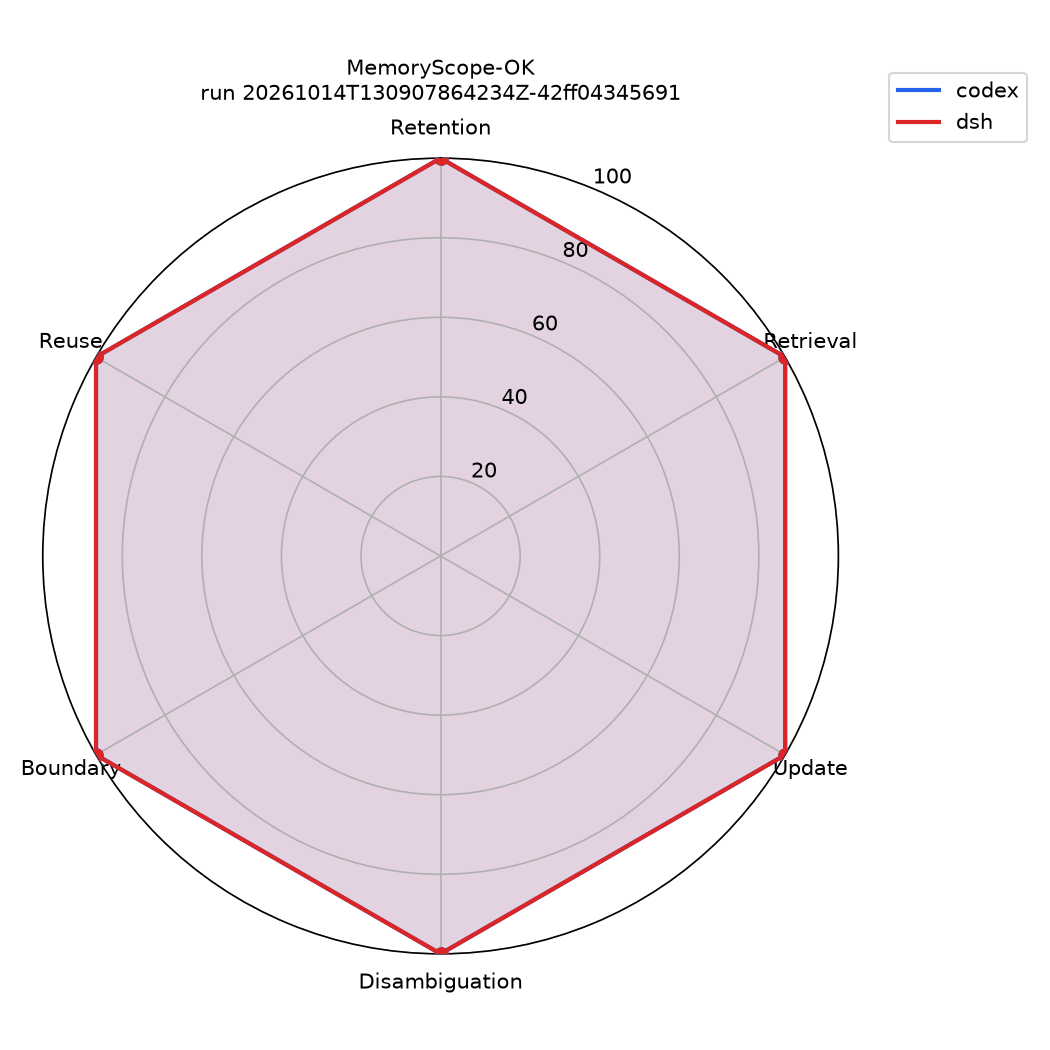
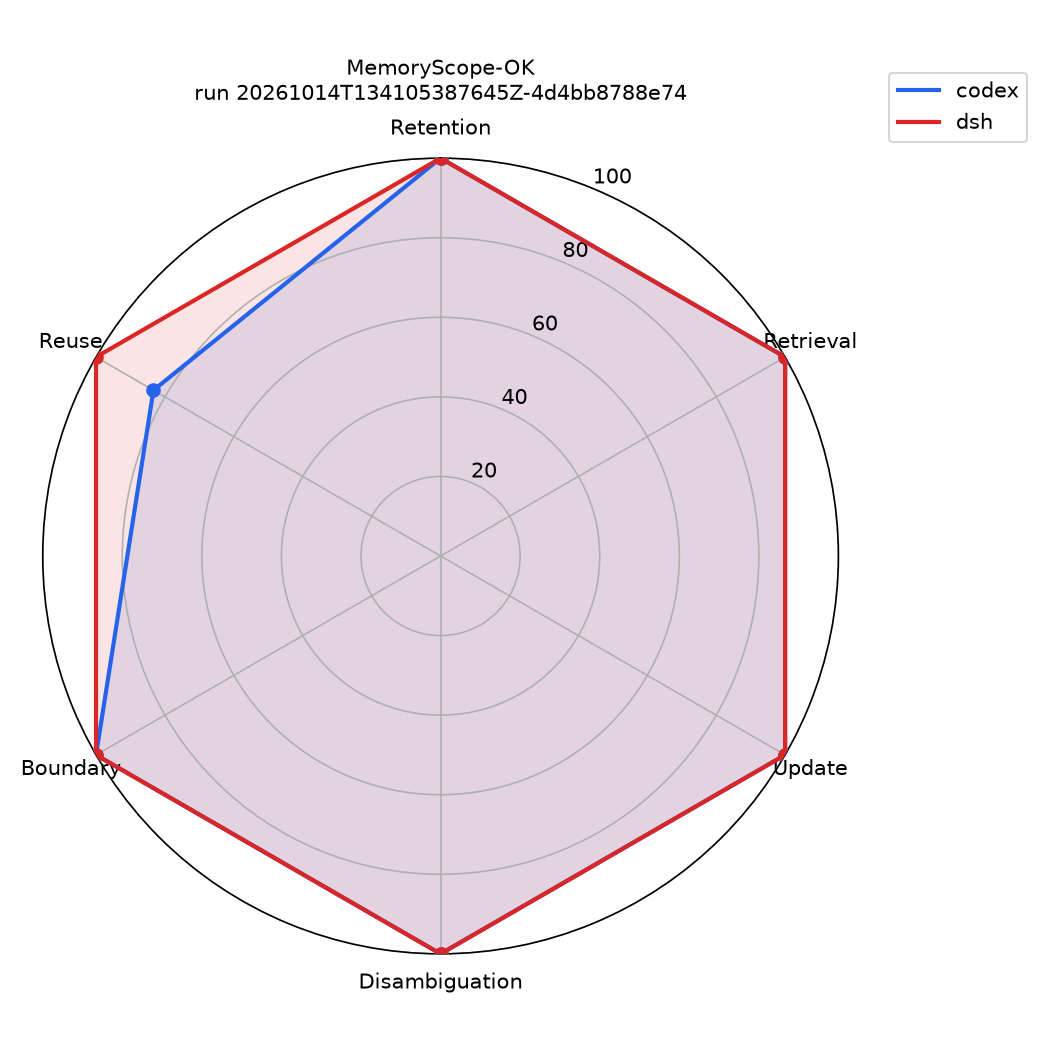
36-case real-agent run results; update STATUS/TODO, SOLUTION results, docs/results

diff --git a/STATUS.md b/STATUS.md
@@ -4,26 +4,31 @@
 
 ## 当前结论
 
-- 版本 **0.2.0**，评分器 **1.2**，提交 `ac3a318`。
-- 数据集 `datasets/golden`：**24 条**用例，六维各 4 条（schema 1.1，steps 格式），`review_status` 均为 draft。48 条目标尚未完成。
-- 两个真实 Agent（Codex CLI、DeepSeek Harness）已在 macOS 上完成一次完整、无错误的评测。
-- **尚未在 openKylin 上安装或运行。** 虚拟机已建好，系统未装（见下文）。
+- 版本 **0.2.0**，评分器 **1.2**，数据 schema 1.1。
+- 数据集 `datasets/golden`：**36 条**，六维各 6 条，其中每维 2 条 hard（由 `scripts/add_hard_cases.py` 生成），全部 `review_status: draft`。48 条目标尚未完成。
+- 两个真实 Agent（Codex CLI、DeepSeek Harness）在 macOS 上完成 36 条完整评测，codex 97.2，dsh 100.0。
+- 已写好 openKylin 安装脚本、一键运行脚本、.deb 打包脚本和方案/演示文档，**均未在 openKylin 上执行过**。系统安装进度见下文。
 
 ## 已实现
 
 - CLI：`validate`、`list-agents`、`run`、`report`、`rescore`（离线重评已保存证据，不调用 Agent）。
-- 用例格式：steps（message / new_session / probe），probe 级 expected 只交给评分器，不传给 Agent。
+- 用例格式：steps（message / new_session / probe / check_memory / check_file）。expected 只交给评分器，不传给 Agent。
 - 结果状态 pass / fail / unknown / error / unsupported 分开记录。维度分 = 100 × pass / (pass + fail)，其余状态不进分母，但会降低覆盖率。任一维度缺失时六维总分为 null。
 - 评分器 1.2（确定性规则，无 LLM）：
-  - `contains` 与 `answer_line`（只评最后一行“答案：”）两种规则。
-  - 拉丁字母/数字词按边界匹配，下划线视为分隔符。
-  - “星期X/礼拜X”统一为“周X”，礼拜天/星期天/周天统一为周日。
-- Adapter：Demo（synthetic）、Codex CLI（`codex exec --json`，DeepSeek OpenAI 兼容接口，model `deepseek-flash`）、DeepSeek Harness（`dsh --profile headless --json`）。
-  - 每个 case 使用独立的临时 home（`CODEX_HOME`/`DSH_HOME`）和工作区，不读写 `~/.codex`、`~/.dsh`。
-  - new_session 会开新线程。长期记忆仅为工作区 `MEMORY.md`，每步后保存快照作为存储证据。
-  - 密钥只从项目 `.env` 读入当前进程环境变量，不写入配置、事件或报告。
-- 报告：JSON / CSV / Markdown / 雷达图（matplotlib），从保存的 results 离线重建。
-- Run 记录：配置与数据快照、文件 SHA-256、git commit、评分器版本、Agent 版本（0.2.0 起在 `start()` 之后记录）。
+  - `contains` / `answer_line`；拉丁字母/数字词按边界匹配，下划线视为分隔符。
+  - “星期X/礼拜X”统一为“周X”。
+- Adapter：Demo（synthetic）、Codex CLI（`codex exec --json`，DeepSeek OpenAI 兼容接口）、DeepSeek Harness（`dsh --profile headless --json`）。
+  - 每个 case 使用独立的临时 home 和工作区，不读写 `~/.codex`、`~/.dsh`。
+  - 两者都用 `deepseek-flash`。dsh 通过 `--patch` 覆盖 `agent-default-model` 来固定模型，启动时用 `--dump-config` 读回实际模型，记入 `describe.effective_model`；不一致则拒绝运行。
+  - 长期记忆仅为工作区 `MEMORY.md`，每步后保存快照。
+  - 密钥只从环境变量或项目 `.env` 读取。
+- 报告：JSON / CSV / Markdown / 雷达图。Run 记录配置与数据快照、SHA-256、git commit 和源码摘要（自 9b81681 起在运行开始时记录）、评分器版本、Agent 版本。
+- 脚本：
+  - `scripts/setup_openkylin.sh`：apt、.venv、用户级 Node 24，npm 安装 `@openai/codex` 与 `@deepseek-ai/dsh`。
+  - `scripts/run_all.sh`：在 macOS 上用 demo 配置实测通过。
+  - `scripts/build_deb.sh`：只做过语法检查，macOS 没有 dpkg，无法实测。
+  - `scripts/dataset_table.py`。
+- 文档：`docs/SOLUTION.md`、`docs/dataset-review.md`、`docs/demo-script.md`、README。
 
 ## 已执行验证（2026-10-14，macOS）
 
@@ -31,46 +36,53 @@
 
 | 命令 | 结果 |
 | --- | --- |
-| `.venv/bin/python -m pip install -e '.[dev]'` | 成功 |
-| `.venv/bin/pytest -q` | **63 passed**（含评分器 1.2 新增 5 条参数化用例） |
-| `memoryscope --version` | 0.2.0 |
-| `memoryscope validate datasets/golden` | 24 cases / 6 files，有效 |
-| `memoryscope run configs/demo.yaml` | 退出 0，synthetic，run `20261014T065010954632Z-5dcb8ba8b36b` |
-| `memoryscope rescore runs/20261013T185847074474Z-e26d88f7bfa9` | 评分器 1.2 重评旧 run，4 项 fail→pass（下划线文件名、星期写法），输出 `rescore-20261014T064914583919Z/` |
-| `memoryscope run configs/agents.yaml` | 退出 0，run `20261014T130907864234Z-42ff04345691`，见下 |
+| `.venv/bin/pytest -q` | **64 passed** |
+| `memoryscope validate datasets/golden` | 36 cases / 6 files，有效 |
+| `memoryscope list-agents` | demo / codex / dsh |
+| `bash scripts/run_all.sh configs/demo.yaml` | 校验、测试、demo 运行和报告均成功；demo 为 synthetic，不计成绩 |
+| `memoryscope rescore runs/20261013T185847074474Z-e26d88f7bfa9` | 评分器 1.2 重评，4 项 fail→pass |
+| `memoryscope run configs/agents.yaml`（24 条） | run `20261014T130907864234Z-42ff04345691`：两者 100.0，48/48 pass |
+| `memoryscope run configs/agents.yaml`（36 条） | run `20261014T134105387645Z-4d4bb8788e74`，见下 |
+| `memoryscope run configs/smoke.yaml` | run `20261014T142602344632Z-b2790f5f2d12`：两者 pass；dsh `effective_model=deepseek-flash`，确认 `--patch` 在真实调用中可用 |
+| 实际 dsh `--dump-config` | 默认模型就是 deepseek-flash；打补丁改成 deepseek-v4-pro 后读回的也是 v4-pro（未调用 API） |
 
-## 完整真实 Agent 评测
+## 完整真实 Agent 评测（36 条）
 
-- Run：`runs/20261014T130907864234Z-42ff04345691`
-  - 13:09–13:33 UTC，约 24 分钟，状态 completed，574 条事件。
-  - 提交 `ac3a318`，评分器 1.2。
+- Run：`runs/20261014T134105387645Z-4d4bb8788e74`，13:41–14:25 UTC（约 44 分钟），completed，982 条事件。
+- 代码与数据为提交 379e74c 时的状态。metadata 中的 git_commit 显示为 700964a，是因为当时在运行结束时才记录；9b81681 已改为在开始时记录。运行期间数据和评分器都没有改动。
 - 报告副本：[docs/results/report.md](docs/results/report.md)、[docs/results/radar.png](docs/results/radar.png)。
 
-| 维度 | codex（Codex CLI + deepseek-flash） | dsh（DeepSeek Harness） |
+| 维度 | codex（Codex CLI + deepseek-flash） | dsh（DeepSeek Harness + deepseek-flash） |
 | --- | --- | --- |
-| retention | 100.0（4/4） | 100.0（4/4） |
-| retrieval | 100.0（4/4） | 100.0（4/4） |
-| dynamic_update | 100.0（4/4） | 100.0（4/4） |
-| disambiguation | 100.0（4/4） | 100.0（4/4） |
-| boundary | 100.0（4/4） | 100.0（4/4） |
-| reuse | 100.0（4/4） | 100.0（4/4） |
-| **六维总分** | **100.0** | **100.0** |
+| retention | 100.0（6/6） | 100.0（6/6） |
+| retrieval | 100.0（6/6） | 100.0（6/6） |
+| dynamic_update | 100.0（6/6） | 100.0（6/6） |
+| disambiguation | 100.0（6/6） | 100.0（6/6） |
+| boundary | 100.0（6/6） | 100.0（6/6） |
+| reuse | **83.3（5/6）** | 100.0（6/6） |
+| **六维总分** | **97.2** | **100.0** |
 
-- 状态分布：两个 Agent 都是 24 pass / 0 fail / 0 unknown / 0 error / 0 unsupported。覆盖率均 100%。
-- 上一次 run（`…e26d88f7bfa9`）codex 有 2 条 error，原因是网络断线（Reconnecting）。本次没有。
+- 状态分布：
+  - codex：35 pass / 1 fail / 0 unknown / 0 error / 0 unsupported；
+  - dsh：36 pass / 0 fail，其余为 0。
+- 唯一未通过：codex `reuse-002`。codex 在第一个会话写 MEMORY.md 时自拟了示例 `exp-01.md`，第二个会话按这个示例建了 `notes/exp-07.md`（编号补零），用户要求的是 `exp-编号.md`，即 `notes/exp-7.md`。因此 `check_file` 判为找不到文件，`answer_line` 中的路径也不符（给的是绝对路径 `…/notes/exp-07.md`）。这是 Agent 在记忆写入时自行加工规则导致的偏差。没有为了提分修改题目或答案。
+- 新增的 12 条 hard 题中，两个 Agent 全部通过。区分度依然很低，需要更难的机制。
 
 ## 局限与解读
 
-1. **区分度不足**：在当前 24 条 draft 用例上两个 Agent 都是满分，无法比较二者，雷达图是两个重合的满分多边形。需要更难的用例：更长干扰、多次更新链、相近实体更多、需主动调用而非直接提问、文件/工具复用。
-2. 长期记忆机制是由评测框架声明的 `MEMORY.md` 约定（两个 Agent 相同），测的是“Agent 是否按约定读写外部记忆文件”，不是各产品原生的记忆功能。
+1. **区分度不足**：36 条中只有 1 条拉开差距，单次运行的 1 条差异不足以下结论。
+2. 长期记忆机制是评测框架声明的 `MEMORY.md` 约定（两个 Agent 相同），测的不是各产品原生的记忆功能。
 3. 每个 Agent 只跑了 1 次，没有重复采样和方差。
-4. 评分只用确定性规则。LLM Judge 尚未实现；否定和引用之类的语义只靠 `answer_line` 规避。
-5. 仅在 macOS 上验证过；openKylin、Python 3.10 解释器上的完整测试、.deb 打包均未做。
-6. README 仍是旧版描述（写的是 1 条用例），需更新。
-7. 比赛规则、截止时间和提交要求尚未从官方来源核实。
+4. 评分只用确定性规则，LLM Judge 尚未实现。
+5. 仅在 macOS 上验证过；openKylin、Python 3.10 解释器、.deb 打包与安装、Linux 上 npm 安装 dsh 均未实测。
+6. 比赛规则、截止时间和提交要求尚未从官方来源核实。
 
 ## openKylin 虚拟机准备（2026-10-14）
 
-已在 VMware Fusion 26.0.0 中新建独立虚拟机 `~/Virtual Machines.localized/openKylin-3.0-ARM64.vmwarevm`：Other Linux 6.x 64-bit Arm、UEFI、4 vCPU、8 GB 内存、80 GB NVMe。现有 Ubuntu 虚拟机未改动。
+已在 VMware Fusion 26.0.0 中新建独立虚拟机 `~/Virtual Machines.localized/openKylin-3.0-ARM64.vmwarevm`：Other Linux 6.x 64-bit Arm、UEFI、4 vCPU、8 GB 内存、80 GB 虚拟盘。现有 Ubuntu 虚拟机未改动。
 
-拟用官方 `openKylin-Server-V3.0-2026.8.27-3-arm64.iso`，官网公布的 MD5 为 `29e1ba9b3d2f8fa088f308ea4d83b6ea`。由用户自行下载。**系统尚未安装，openKylin 内未做任何项目验证。**
+用户已将官方 `openKylin-Server-V3.0-2026.8.27-3-arm64.iso` 下载到 `~/Downloads/`。已核对文件大小 1,748,994,048 字节、MD5 `29e1ba9b3d2f8fa088f308ea4d83b6ea`，与官网公布值一致；原 ISO 未修改。
+
+首次从 ISO 启动时，Linux 7.0.0-2-generic 在 `i8042_init` 内的 `logic_inb` 发生内核异常，无法进入安装器。为排查制作了 `/private/tmp/openkylin-v3-arm64-install-workaround.iso` 临时副本，仅修改其 GRUB 启动参数为 `initcall_blacklist=i8042_init` 并延长菜单等待时间。虚拟机加了串口文件日志 `/private/tmp/openkylin-serial.log` 用于记录内核输出；后因跳过旧式键盘控制器后无法输入，又在该虚拟机中启用 `keyboard.vusb.enable = "TRUE"`。这组设置已让安装器正常启动并接收键盘输入。
+
+首次安装会话中，用户已自行设置用户和 root 密码；时区选 `America/New_York`。但到目标磁盘步骤时，安装器没有列出任何磁盘，只反复提示 `Enter a numeric selection.`。因此停止该会话，将同一块尚未写入系统的 80 GB 虚拟盘由 NVMe 改接到 SATA；VMware 界面确认显示 `Hard Disk (SATA) connected`。重新启动后，自动输入回车时出现 `Password must not be empty` 循环，故再次停止并重启。当前安装器重新停在 **Hostname [openkylin]**，等待用户在 VMware 窗口以物理键盘完成主机名、用户名及密码输入，然后继续检查 SATA 磁盘是否列出。**系统尚未写入虚拟磁盘；openKylin 内未做任何项目验证。**

diff --git a/TODO.md b/TODO.md
@@ -8,18 +8,25 @@
 - [x] 评分器 1.2（边界匹配、下划线分隔、星期写法归一），离线重评。
 - [x] Codex CLI 与 DeepSeek Harness Adapter，每个 case 独立 home/工作区，不触碰用户配置。
 - [x] JSON/CSV/Markdown/雷达图报告。
-- [x] 24 条用例（六维各 4）上两个真实 Agent 完整评测（macOS），结果在 docs/results/。
+- [x] 24 条用例（六维各 4）上两个真实 Agent 完整评测（macOS），两者均 100。
+- [x] 新增 12 条 hard 用例（共 36 条），完整评测：codex 97.2，dsh 100.0，结果在 docs/results/。
+- [x] dsh 模型通过 `--patch` 固定为 deepseek-flash，并用 `--dump-config` 读回验证。
+- [x] 脚本：setup_openkylin.sh、run_all.sh、build_deb.sh、dataset_table.py（openKylin 上未实测）。
+- [x] 文档：SOLUTION.md、dataset-review.md、demo-script.md，README 已重写。
 - [x] 创建 openKylin ARM64 虚拟机（未装系统）。
 
 ## 用户需亲自操作
 
-- [ ] 下载官方 openKylin 3.0 ARM64 ISO，核对 MD5 `29e1ba9b3d2f8fa088f308ea4d83b6ea` 后安装系统。
+- [x] 下载官方 openKylin 3.0 ARM64 ISO，核对 MD5 `29e1ba9b3d2f8fa088f308ea4d83b6ea`。
+- [ ] 在重新启动的 VMware 安装器中自行设置 openKylin 登录密码（此前已设置过一次，但未写盘并因输入故障重启；当前停在 Hostname）。
+- [ ] 确认改接 SATA 后安装器能列出 80 GB 虚拟盘；此前 NVMe 接口未列出磁盘。
+- [ ] 完成虚拟磁盘安装、重启及首次登录；将内核启动绕过参数持久化，并验证系统可再次启动。
 - [ ] 在 openKylin 内安装项目、codex、dsh，运行完整评测（可由 Claude 远程指导或代为执行命令）。
 - [ ] 录制 3–5 分钟演示视频。
 
 ## 数据集（优先）
 
-- [ ] 当前两个 Agent 都是满分、区分不开：设计更难的用例（长干扰链、多次更新、更多相近实体、隐式调用、文件/工具复用）。
+- [ ] 区分度仍然很低：36 条中只有 codex reuse-002 一条未通过。需要更难的机制，例如更长的会话链（10 次以上切换）、冲突来源（两个人给出矛盾信息）、需要推理的组合、多文件任务、记忆容量压力（大量相似事实）。
 - [ ] 扩到六维各 8 条共 48 条，逐条人工复核，`review_status` 从 draft 改为 reviewed。
 - [ ] 加入无记忆基线（例如关闭 MEMORY.md 约定），证明题目确实依赖跨会话记忆。
 
@@ -27,12 +34,11 @@
 
 - [ ] 每个 Agent 重复多次，报告均值与波动。
 - [ ] 可选的 LLM Judge（默认关闭，不能覆盖确定性检查）。
-- [ ] 更新 README 到当前功能（目前仍写 1 条用例）。
 
 ## openKylin 与交付
 
 - [ ] openKylin 上：安装、pytest、validate、demo、两个真实 Agent 完整 run、报告与雷达图，记录发行版/架构/Python 版本。
 - [ ] Python 3.10 解释器完整测试。
-- [ ] 打 .deb 包（一键 CLI）。
-- [ ] 方案文档、样例与结果整理、录屏脚本。
+- [ ] 在 openKylin 上执行 build_deb.sh，并实测安装与 `memoryscope-ok all`。
+- [ ] openKylin 实测后，把 SOLUTION.md 第 7、8 节与 STATUS 更新为实机结果。
 - [ ] 从官方来源核实赛题、截止时间（项目目标写的是 2026-10-16）、提交要求。

diff --git a/docs/results/report.md b/docs/results/report.md
@@ -1,9 +1,9 @@
 # MemoryScope-OK 评测报告
 
-- Run ID：`20261014T130907864234Z-42ff04345691`
+- Run ID：`20261014T134105387645Z-4d4bb8788e74`
 - 运行状态：completed
 - 性质：真实 Agent 实测
-- 用例数：24
+- 用例数：36
 
 维度分 = 100 × 通过 / (通过 + 失败)。unknown、error、unsupported 不计入分母，单独列出并降低覆盖率；任一维度缺失时不计算六维总分。
 
@@ -11,20 +11,20 @@
 
 | 维度 | codex | dsh |
 | --- | --- | --- |
-| 长期保持 `retention` | 100.0（4/4，覆盖 100.0%） | 100.0（4/4，覆盖 100.0%） |
-| 记忆调用 `retrieval` | 100.0（4/4，覆盖 100.0%） | 100.0（4/4，覆盖 100.0%） |
-| 动态更新 `dynamic_update` | 100.0（4/4，覆盖 100.0%） | 100.0（4/4，覆盖 100.0%） |
-| 相近区分 `disambiguation` | 100.0（4/4，覆盖 100.0%） | 100.0（4/4，覆盖 100.0%） |
-| 边界识别 `boundary` | 100.0（4/4，覆盖 100.0%） | 100.0（4/4，覆盖 100.0%） |
-| 任务复用 `reuse` | 100.0（4/4，覆盖 100.0%） | 100.0（4/4，覆盖 100.0%） |
-| **六维总分** | 100.0 | 100.0 |
+| 长期保持 `retention` | 100.0（6/6，覆盖 100.0%） | 100.0（6/6，覆盖 100.0%） |
+| 记忆调用 `retrieval` | 100.0（6/6，覆盖 100.0%） | 100.0（6/6，覆盖 100.0%） |
+| 动态更新 `dynamic_update` | 100.0（6/6，覆盖 100.0%） | 100.0（6/6，覆盖 100.0%） |
+| 相近区分 `disambiguation` | 100.0（6/6，覆盖 100.0%） | 100.0（6/6，覆盖 100.0%） |
+| 边界识别 `boundary` | 100.0（6/6，覆盖 100.0%） | 100.0（6/6，覆盖 100.0%） |
+| 任务复用 `reuse` | 83.3（5/6，覆盖 100.0%） | 100.0（6/6，覆盖 100.0%） |
+| **六维总分** | 97.2 | 100.0 |
 
 ## 状态分布
 
 | Agent | pass | fail | unknown | error | unsupported |
 | --- | --- | --- | --- | --- | --- |
-| codex | 24 | 0 | 0 | 0 | 0 |
-| dsh | 24 | 0 | 0 | 0 | 0 |
+| codex | 35 | 1 | 0 | 0 | 0 |
+| dsh | 36 | 0 | 0 | 0 | 0 |
 
 ## Agent 信息
 
@@ -33,5 +33,6 @@
 
 ## 未通过的检查（含评分理由）
 
+- `codex` / `reuse-002`（fail）：file: fail — File not found in sandbox workspace: notes/exp-7.md；confirm: fail — missing required: notes/exp-7.md.
 
 原始证据见同一运行目录的 `events.jsonl`；每条检查的 `evaluation_event` 指向其事件序号。

diff --git a/docs/SOLUTION.md b/docs/SOLUTION.md
@@ -112,7 +112,31 @@ dsh 在 macOS 上运行在 DeepSeek Harness 桌面应用内部。它的 CLI 以 
 
 见 [results/report.md](results/report.md) 和 [results/radar.png](results/radar.png)。
 
-RESULTS_PLACEHOLDER
+环境：macOS 26.5.1（arm64）。codex-cli 0.162.0-alpha.17.2 与 dsh 0.2.0-rc.2，两者都用 deepseek-flash，评分器 1.2。
+
+**第一轮：24 条（六维各 4 条，easy/medium 为主）**，run `20261014T130907864234Z-42ff04345691`。两个 Agent 均为 24/24 pass，六维总分都是 100.0，完全没有区分度。
+
+**第二轮：36 条（每维新增 2 条 hard）**，run `20261014T134105387645Z-4d4bb8788e74`：
+
+| 维度 | codex | dsh |
+| --- | --- | --- |
+| retention 长期保持 | 100.0（6/6） | 100.0（6/6） |
+| retrieval 记忆调用 | 100.0（6/6） | 100.0（6/6） |
+| dynamic_update 动态更新 | 100.0（6/6） | 100.0（6/6） |
+| disambiguation 相近区分 | 100.0（6/6） | 100.0（6/6） |
+| boundary 边界识别 | 100.0（6/6） | 100.0（6/6） |
+| reuse 任务复用 | 83.3（5/6） | 100.0（6/6） |
+| **六维总分** | **97.2** | **100.0** |
+
+两者都没有 error、unknown 或 unsupported，覆盖率均为 100%。
+
+**唯一拉开差距的是 codex 的 `reuse-002`。** codex 写记忆时自己补了一个示例 `exp-01.md`，之后照着这个示例建出了 `notes/exp-07.md`，而规则要求的是 `notes/exp-7.md`。`check_file` 抓住了这个行为层面的偏差：口头回答看起来合理，但文件名不对。这体现了行为证据的价值。
+
+如实说明：
+
+- 新增的 12 条 hard 题两个 Agent 都通过了。在 `MEMORY.md` 外部记忆约定下，当前机制对这两个 Agent 都偏容易。
+- 单次运行只有 1 条差异，不足以得出“谁更好”的结论。
+- 后续需要更长的会话链、矛盾来源、记忆容量压力和多文件任务，并做重复运行。
 
 ## 9 局限
 
